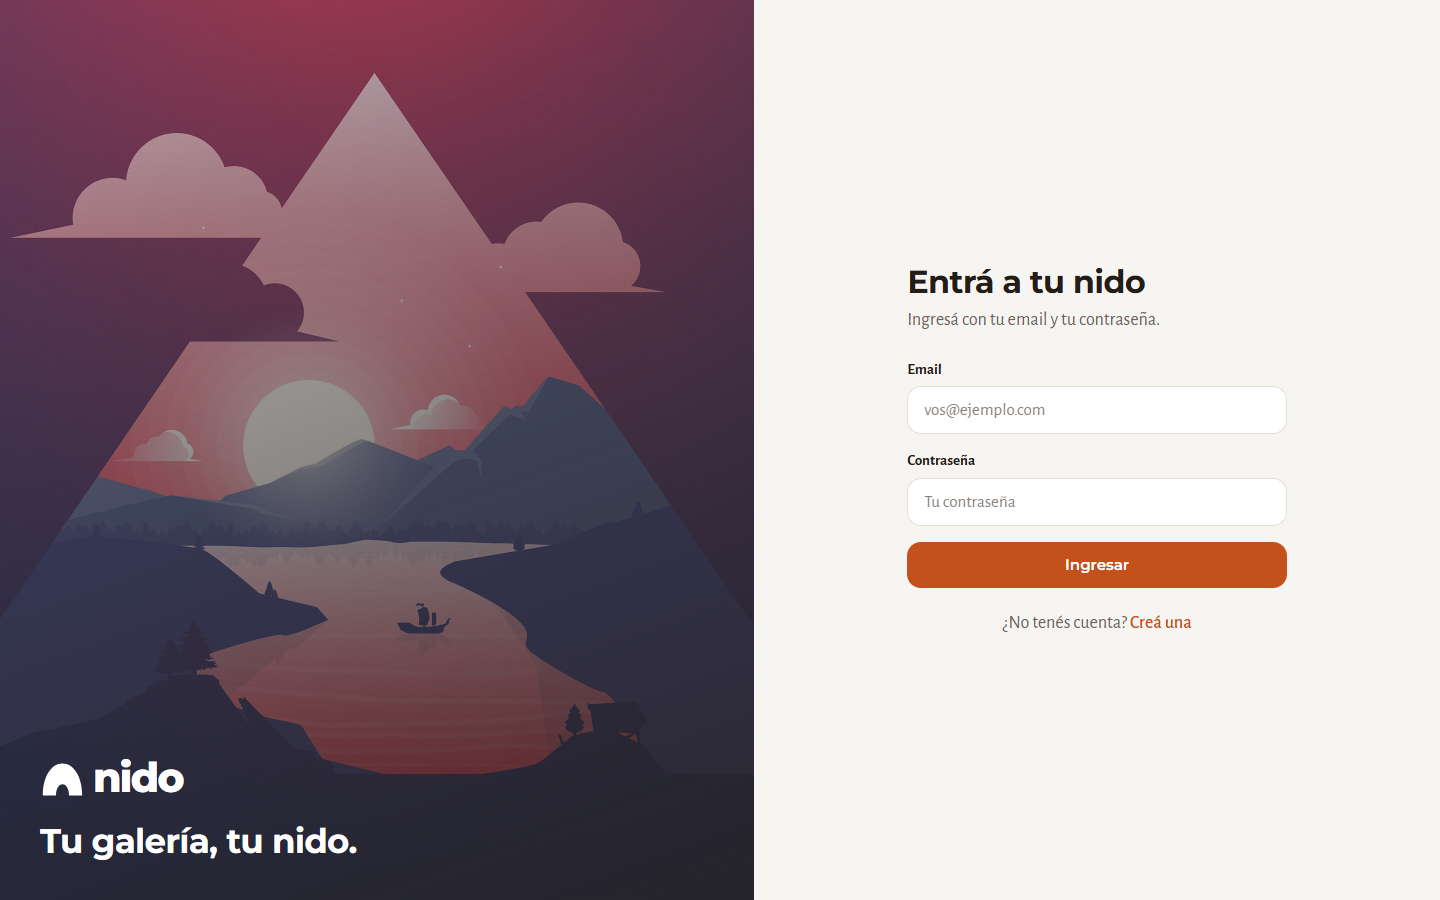
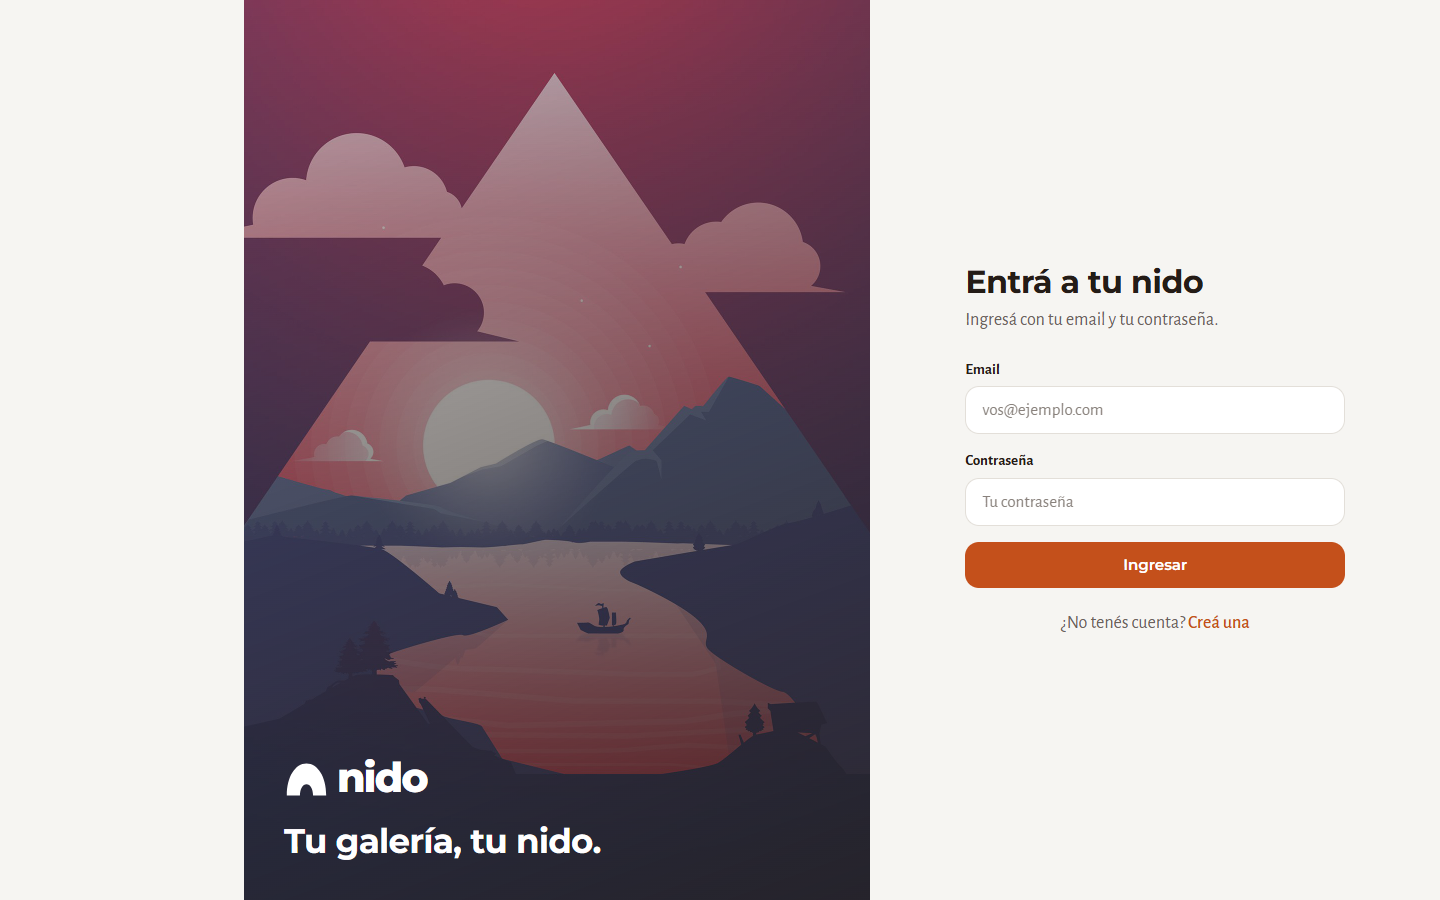
Actualizar README y capturas con las funciones nuevas
Textos, feed mixto, historias, perfiles, privacidad, configuracion y portal web.
Incluye API completa, reglas de privacidad, migracion y hoja de ruta.

diff --git a/README.md b/README.md
@@ -1,10 +1,10 @@
 # Nido
 
-Red social para compartir fotos, hecha con Vue 3 y Node.js. La identidad sale del hornero y su nido de barro: el "me gusta" es un nido y los usuarios llenan el feed de a una foto por vez.
+Red social para compartir fotos y textos, hecha con Vue 3 y Node.js. La identidad sale del hornero y su nido de barro: el "me gusta" es un nido, y cada foto o texto se suma al nido de todos.
 
-Está inspirada en lo mejor de las redes más usadas (el feed visual de Instagram, las etiquetas de Twitter, los comentarios de Facebook) y lo junta en una interfaz propia, con modo oscuro y pensada para el celular.
+Junta lo mejor de las redes más usadas en una sola interfaz: las fotos y las historias de Instagram, los textos cortos y los hashtags de Twitter, y el perfil con estadísticas, privacidad y comentarios de las dos. Tiene portal web con barra lateral, modo oscuro y una versión pensada para el celular.
 
-![Feed de Nido](docs/screenshots/03-feed.png)
+![Inicio de Nido](docs/screenshots/03-inicio.png)
 
 ## Demo
 
@@ -17,64 +17,115 @@ Todas las capturas son del prototipo corriendo con datos de ejemplo (ver [Datos 
     <td><img src="docs/screenshots/01-login.png" alt="Pantalla de ingreso"></td>
     <td><img src="docs/screenshots/02-registro.png" alt="Pantalla de registro"></td>
   </tr>
-  <tr>
-    <td align="center">Ingreso</td>
-    <td align="center">Registro</td>
-  </tr>
 </table>
 
-### Feed y publicaciones
+### Inicio: fotos y textos juntos, con historias
+
+El feed mezcla fotos (estilo Instagram) y textos cortos (estilo Twitter), de la más nueva a la más vieja. Arriba están las historias y un cuadro para escribir sin salir del inicio. Con **doble clic** en cualquier publicación le das un hornero, y otro doble clic lo saca.
 
 <table>
   <tr>
-    <td><img src="docs/screenshots/03b-feed-hover.png" alt="Feed con una foto resaltada"></td>
-    <td><img src="docs/screenshots/04-publicacion.png" alt="Publicación abierta con comentarios"></td>
+    <td><img src="docs/screenshots/04-doble-hornero.png" alt="Doble clic en una foto: aparece el hornero"></td>
+    <td><img src="docs/screenshots/05-inicio-texto.png" alt="Texto publicado desde el inicio"></td>
   </tr>
   <tr>
-    <td align="center">Grilla tipo mosaico, con me gusta al pasar el mouse</td>
-    <td align="center">Publicación con comentarios y me gusta</td>
+    <td align="center">Doble clic en una foto</td>
+    <td align="center">Texto publicado desde el inicio</td>
   </tr>
 </table>
-
-### Publicar y perfil
 
 <table>
   <tr>
-    <td><img src="docs/screenshots/05-publicar.png" alt="Formulario para publicar una foto"></td>
-    <td><img src="docs/screenshots/06-perfil.png" alt="Perfil de usuario"></td>
+    <td><img src="docs/screenshots/06-publicacion.png" alt="Foto abierta con comentarios"></td>
+    <td><img src="docs/screenshots/07-publicacion-texto.png" alt="Texto abierto con comentarios"></td>
   </tr>
   <tr>
-    <td align="center">Subir una foto con vista previa</td>
-    <td align="center">Perfil</td>
+    <td align="center">Foto con comentarios</td>
+    <td align="center">Texto con comentarios</td>
   </tr>
 </table>
+
+### Historias de 24 horas
+
+Se suben desde "Crear", aparecen arriba del inicio con un aro de color mientras no las viste, y el servidor las borra solas a las 24 horas.
+
+<table>
+  <tr>
+    <td><img src="docs/screenshots/08-crear-historia.png" alt="Crear una historia"></td>
+    <td><img src="docs/screenshots/09-historia.png" alt="Visor de historias"></td>
+  </tr>
+  <tr>
+    <td align="center">Crear una historia</td>
+    <td align="center">Visor con barra de progreso y tiempo restante</td>
+  </tr>
+</table>
+
+### Explorar y buscar personas
+
+<table>
+  <tr>
+    <td><img src="docs/screenshots/10-explorar.png" alt="Explorar: mosaico de fotos"></td>
+    <td><img src="docs/screenshots/11-buscar.png" alt="Búsqueda de personas"></td>
+  </tr>
+</table>
+
+### Perfiles y privacidad
+
+Cada persona tiene su perfil con publicaciones, seguidores, seguidos y biografía. Las cuentas privadas solo muestran su contenido a quienes aprobó.
+
+<table>
+  <tr>
+    <td><img src="docs/screenshots/12-perfil.png" alt="Perfil de una persona"></td>
+    <td><img src="docs/screenshots/14-perfil-privado.png" alt="Perfil de una cuenta privada"></td>
+  </tr>
+  <tr>
+    <td align="center">Perfil con grilla de fotos</td>
+    <td align="center">Cuenta privada vista por quien no la sigue</td>
+  </tr>
+</table>
+
+![Configuración](docs/screenshots/13-configuracion.png)
 
 ### Modo oscuro
 
-<table>
-  <tr>
-    <td><img src="docs/screenshots/07-feed-oscuro.png" alt="Feed en modo oscuro"></td>
-    <td><img src="docs/screenshots/08-publicacion-oscuro.png" alt="Publicación en modo oscuro"></td>
-  </tr>
-</table>
+![Inicio en modo oscuro](docs/screenshots/15-inicio-oscuro.png)
 
 ### En el celular
 
 <table>
   <tr>
-    <td><img src="docs/screenshots/09-movil-login.png" alt="Ingreso en el celular" width="260"></td>
-    <td><img src="docs/screenshots/10-movil-feed.png" alt="Feed en el celular" width="260"></td>
-    <td><img src="docs/screenshots/11-movil-publicacion.png" alt="Publicación en el celular" width="260"></td>
+    <td><img src="docs/screenshots/16-movil-inicio.png" alt="Inicio en el celular" width="260"></td>
+    <td><img src="docs/screenshots/17-movil-perfil.png" alt="Perfil en el celular" width="260"></td>
+    <td><img src="docs/screenshots/18-movil-historia.png" alt="Historia en el celular" width="260"></td>
   </tr>
 </table>
 
 ## Qué puede hacer hoy
 
-- Crear una cuenta, iniciar y cerrar sesión (contraseñas con bcrypt, sesión con JWT de 7 días).
-- Ver el feed de publicaciones públicas en una grilla tipo mosaico, con estados de carga, vacío y error.
-- Subir una foto con título, descripción y etiquetas, con vista previa y arrastrar y soltar.
-- Dar me gusta (un solo me gusta por persona) y comentar desde la publicación abierta.
-- Cambiar entre modo claro y oscuro (se recuerda la elección) y usarlo desde el celular con barra de navegación inferior.
+**Publicar**
+- Fotos con título, descripción y etiquetas, con vista previa y arrastrar y soltar.
+- Textos de hasta 280 caracteres (como un tuit). Los `#hashtags` se resaltan y quedan como etiquetas.
+- Historias que se borran a las 24 horas.
+- Borrar tus propias publicaciones e historias.
+
+**Interactuar**
+- Hornero (me gusta) con un toque o con doble clic. Otro doble clic lo saca. El total se actualiza en todas las pantallas.
+- Comentarios en fotos y textos.
+- Seguir y dejar de seguir. El inicio tiene dos pestañas: **Lo más nuevo** (todo, fotos y textos mezclados) y **Siguiendo**.
+
+**Perfiles**
+- Ver el perfil de cualquier persona: publicaciones, seguidores, seguidos, biografía, grilla de fotos y pestaña de textos.
+- Buscar personas por nombre de usuario y recibir sugerencias de a quién seguir.
+
+**Configuración y privacidad**
+- Cambiar la foto de perfil, el nombre de usuario y la biografía.
+- **Cuenta privada**: solo quienes aprobás ven tus fotos, textos, comentarios e historias. Seguir una cuenta privada envía una solicitud que se acepta o se rechaza desde Configuración. Al volver pública la cuenta, las solicitudes pendientes se aceptan.
+- Cambiar la contraseña y eliminar la cuenta con todo su contenido.
+
+**Portal web y celular**
+- Barra lateral con navegación (se reduce a íconos en tablet), columna central con el feed y panel de sugerencias a la derecha.
+- En el celular: barra superior, navegación inferior y las mismas pantallas adaptadas.
+- Modo claro y oscuro, que se recuerda.
 
 Lo que sigue está en la [hoja de ruta](#hoja-de-ruta).
 
@@ -94,13 +145,16 @@ nido-vue/
 │   ├── public/              # index.html, íconos y favicon
 │   └── src/
 │       ├── assets/styles/   # tokens.css (paleta y fuentes) y base.css
-│       ├── components/      # NidoLogo, Icon, Avatar, AuthLayout, ImageUpload
+│       ├── components/      # PostCard, StoriesBar, StoryViewer, Composer, FollowButton...
+│       ├── lib/             # Fechas relativas y apertura de publicaciones
 │       ├── router/          # Rutas y protección de páginas
-│       ├── store/           # Sesión (Vuex)
-│       ├── views/           # Feed, Publicación, Login, Registro, Subir, Perfil
+│       ├── store/           # Sesión y me gusta (Vuex)
+│       ├── views/           # Inicio, Explorar, Crear, Perfil, Configuración, Publicación, Login, Registro
 │       └── api.js           # Cliente HTTP (lee VUE_APP_API_URL)
 ├── server/                  # API REST
-│   ├── resources/           # users.js y post.js
+│   ├── resources/           # users.js, post.js y stories.js
+│   ├── lib/helpers.js       # Reglas de visibilidad (cuentas privadas) y borrado de archivos
+│   ├── migrations/          # Cambios de la base para instalaciones existentes
 │   ├── scripts/seed.js      # Datos de demostración
 │   └── index.js             # Arranque, base de datos y autenticación
 ├── docs/screenshots/        # Capturas de este README
@@ -122,6 +176,8 @@ mysql -u <usuario> -p nido < nido.sql
 ```
 
 El dump incluye un usuario de prueba: `demo@nido.app` con contraseña `demo1234`.
+
+> **¿Ya tenías la base de una versión anterior?** En lugar de importar `nido.sql`, corré la migración: `mysql -u <usuario> -p nido < server/migrations/001-texto-historias-seguidores.sql`. Agrega los textos, las historias, los seguidores y la privacidad sin perder datos. Si hay emails o nombres de usuario repetidos, corregilos antes, porque pasan a ser únicos.
 
 ### 2. Servidor
 
@@ -174,47 +230,89 @@ node -e "console.log(require('crypto').randomBytes(48).toString('hex'))"
 
 ## Datos de demostración
 
-Con el servidor corriendo, este comando crea cuatro usuarios, publica fotos de ejemplo, y agrega me gusta y comentarios al azar:
+Con el servidor corriendo, este comando crea cuatro usuarios con biografía, publica fotos y textos, arma seguidores, sube historias, y agrega horneros y comentarios al azar:
 
 ```bash
 cd server
 npm run seed
 ```
 
-Las fotos son paisajes ilustrados que se generan en el momento con la paleta de Nido, así que no dependen de ninguna fuente externa. Podés ajustar la cantidad y la dirección del servidor:
+Las fotos y las historias son paisajes ilustrados que se generan en el momento con la paleta de Nido, así que no dependen de ninguna fuente externa. Podés ajustar las cantidades y la dirección del servidor:
 
 ```bash
-POSTS=24 API_URL=http://localhost:4000 npm run seed
+POSTS=24 TEXTS=12 STORIES=8 API_URL=http://localhost:4000 npm run seed
 ```
 
 Los usuarios creados son `valeria@nido.app`, `tomas@nido.app`, `lucia@nido.app` y `mateo@nido.app`, todos con la contraseña `nido1234` (se puede cambiar con `SEED_PASSWORD`). El script se puede ejecutar varias veces: si un usuario ya existe, inicia sesión con él.
 
 Las imágenes subidas se guardan en `server/public/uploads/` y no se suben a git.
 
+## Reglas importantes
+
+- **Privacidad:** el servidor es quien aplica la privacidad, no el cliente. Una cuenta privada solo muestra sus publicaciones, comentarios e historias a ella misma y a sus seguidores aceptados. Para el resto, esas publicaciones no aparecen en el feed, en Explorar ni en la API, y abrirlas por su dirección devuelve "no encontrada".
+- **Historias:** duran 24 horas. La API deja de mostrarlas en ese momento y el servidor borra la fila y el archivo cada 10 minutos (y al arrancar).
+- **Imágenes:** solo se aceptan imágenes de hasta 10 MB.
+- **Fechas:** se guardan y se leen en UTC, y el cliente las muestra como "hace 5 min".
+- **Nombre de usuario:** entre 3 y 30 caracteres: letras, números, puntos o guiones bajos. Es único, igual que el email.
+
 ## API
 
-Las rutas marcadas con 🔒 requieren el token en el encabezado `Authorization`.
+Las rutas marcadas con 🔒 requieren el token en el encabezado `Authorization`. Las demás funcionan sin iniciar sesión, pero respetan la privacidad según quién consulta.
+
+**Cuenta**
 
 | Método | Ruta | Descripción |
 |---|---|---|
 | POST | `/api/users/register` | Crea una cuenta. Recibe `username`, `email` y `password`. |
 | POST | `/api/users/login` | Inicia sesión. Recibe `email` y `password`. |
-| GET | `/api/users/profile` 🔒 | Datos de la cuenta con la sesión iniciada. |
-| GET | `/api/users/:id` | Nombre público de un usuario. |
-| GET | `/api/posts` | Publicaciones públicas, de la más nueva a la más vieja. |
+| GET | `/api/users/profile` 🔒 | Datos de tu cuenta. |
+| PUT | `/api/users/profile` 🔒 | Edita `username`, `bio` e `is_private`. |
+| POST | `/api/users/avatar` 🔒 | Sube la foto de perfil (archivo `avatar`). |
+| DELETE | `/api/users/avatar` 🔒 | Quita la foto de perfil. |
+| PUT | `/api/users/password` 🔒 | Cambia la contraseña (`current` y `next`). |
+| DELETE | `/api/users/account` 🔒 | Elimina la cuenta (requiere `password`). |
+
+**Personas**
+
+| Método | Ruta | Descripción |
+|---|---|---|
+| GET | `/api/users/:id` | Perfil público: estadísticas, biografía, estado de seguimiento y si podés ver su contenido. |
+| GET | `/api/users/search?q=` | Busca por nombre de usuario. |
+| GET | `/api/users/suggestions` 🔒 | Personas para seguir. |
+| POST | `/api/users/:id/follow` 🔒 | Sigue (o envía solicitud si la cuenta es privada). |
+| DELETE | `/api/users/:id/follow` 🔒 | Deja de seguir o cancela la solicitud. |
+| GET | `/api/users/requests` 🔒 | Solicitudes de seguimiento que recibiste. |
+| POST | `/api/users/requests/:id/accept` 🔒 | Acepta una solicitud. |
+| DELETE | `/api/users/requests/:id` 🔒 | Rechaza una solicitud. |
+
+**Publicaciones**
+
+| Método | Ruta | Descripción |
+|---|---|---|
+| GET | `/api/posts` | Lista, de la más nueva a la más vieja. Filtros: `kind=image\|text`, `user=<id>`, `feed=following`, `limit`, `offset`. |
 | GET | `/api/posts/:id` | Una publicación. |
 | POST | `/api/posts` 🔒 | Publica una foto. Formulario con `source` (archivo), `title`, `description` y `tags`. |
-| GET | `/api/posts/likes` 🔒 | Identificadores de las publicaciones que te gustaron. |
-| POST | `/api/posts/like/:postId` 🔒 | Da me gusta. |
+| POST | `/api/posts/text` 🔒 | Publica un texto de hasta 280 caracteres (`text`). |
+| DELETE | `/api/posts/:id` 🔒 | Borra una publicación propia. |
+| GET | `/api/posts/likes` 🔒 | Identificadores de lo que te gustó. |
+| POST | `/api/posts/like/:postId` 🔒 | Da el hornero; si ya lo diste, lo saca. Devuelve `liked` y el total. |
 | GET | `/api/posts/:id/comments` | Comentarios de una publicación. |
-| POST | `/api/posts/:id/comments` 🔒 | Comenta. Recibe `comment`. |
+| POST | `/api/posts/:id/comments` 🔒 | Comenta (`comment`). |
+
+**Historias**
+
+| Método | Ruta | Descripción |
+|---|---|---|
+| GET | `/api/stories` | Historias activas (últimas 24 horas), agrupadas por persona. Las tuyas van primero. |
+| POST | `/api/stories` 🔒 | Sube una historia (archivo `source`). |
+| DELETE | `/api/stories/:id` 🔒 | Borra una historia propia. |
 
 ## Diseño
 
 - **Paleta:** naranja hornero como único acento, barro para el texto, pampa verde, cielo azul y un fondo arena. Todo está en `client/src/assets/styles/tokens.css` como variables, con su versión oscura.
 - **Tipografía:** Montserrat para títulos y botones, y Alegreya Sans para el texto.
 - **Íconos:** un conjunto propio de trazos simples. El "me gusta" es el nido de hornero.
-- **Responsive:** en pantallas chicas el feed pasa a dos columnas y aparece una barra de navegación inferior.
+- **Responsive:** tres modos. Escritorio con barra lateral completa y panel de sugerencias; tablet con barra lateral de íconos; celular con barra superior e inferior.
 
 ## Hoja de ruta
 
@@ -223,16 +321,22 @@ Lo que ya está hecho:
 - [x] Seguridad básica y configuración por variables de entorno
 - [x] Identidad visual: paleta, tipografía, íconos, modo claro y oscuro
 - [x] Rediseño de todas las pantallas, versión celular incluida
+- [x] Publicaciones de solo texto y feed que mezcla fotos y textos
+- [x] Hornero con doble clic (da y saca)
+- [x] Historias que se borran a las 24 horas
+- [x] Perfiles, seguidores, pestaña Siguiendo, búsqueda y sugerencias
+- [x] Configuración del perfil, cuenta privada con solicitudes y baja de cuenta
 
 Lo que sigue:
 
-- [ ] Perfil completo con foto, descripción y grilla de publicaciones
-- [ ] Seguir personas y un feed con las publicaciones de quienes seguís
-- [ ] Búsqueda de usuarios y etiquetas, con tendencias
-- [ ] Publicaciones de solo texto
-- [ ] Notificaciones y respuestas dentro de los comentarios
-- [ ] Scroll infinito con paginación en el servidor
-- [ ] Historias de 24 horas y comunidades ("nidos")
+- [ ] Notificaciones (horneros, comentarios, nuevos seguidores y solicitudes)
+- [ ] Listas de seguidores y seguidos, y bloquear personas
+- [ ] Respuestas dentro de los comentarios y menciones con `@`
+- [ ] Páginas de etiquetas y tendencias
+- [ ] Scroll infinito con paginación en el cliente
+- [ ] Guardar publicaciones en colecciones
+- [ ] Mensajes directos
+- [ ] Comunidades ("nidos")
 - [ ] Publicación en línea con datos de ejemplo
 
 ## Notas
